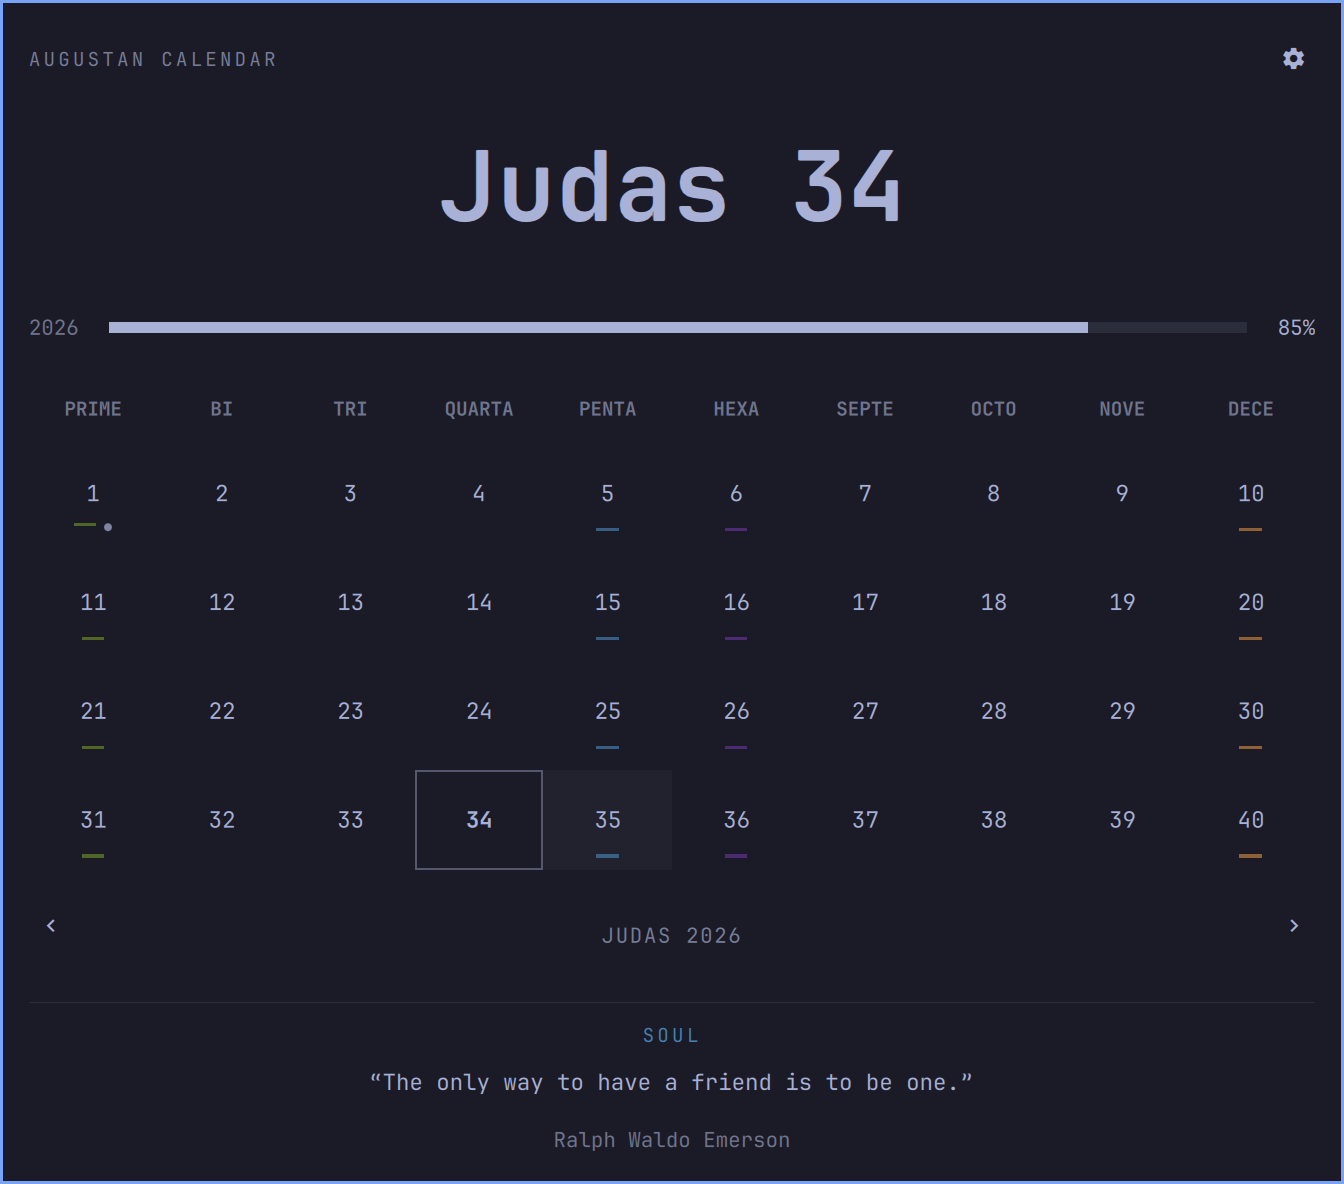
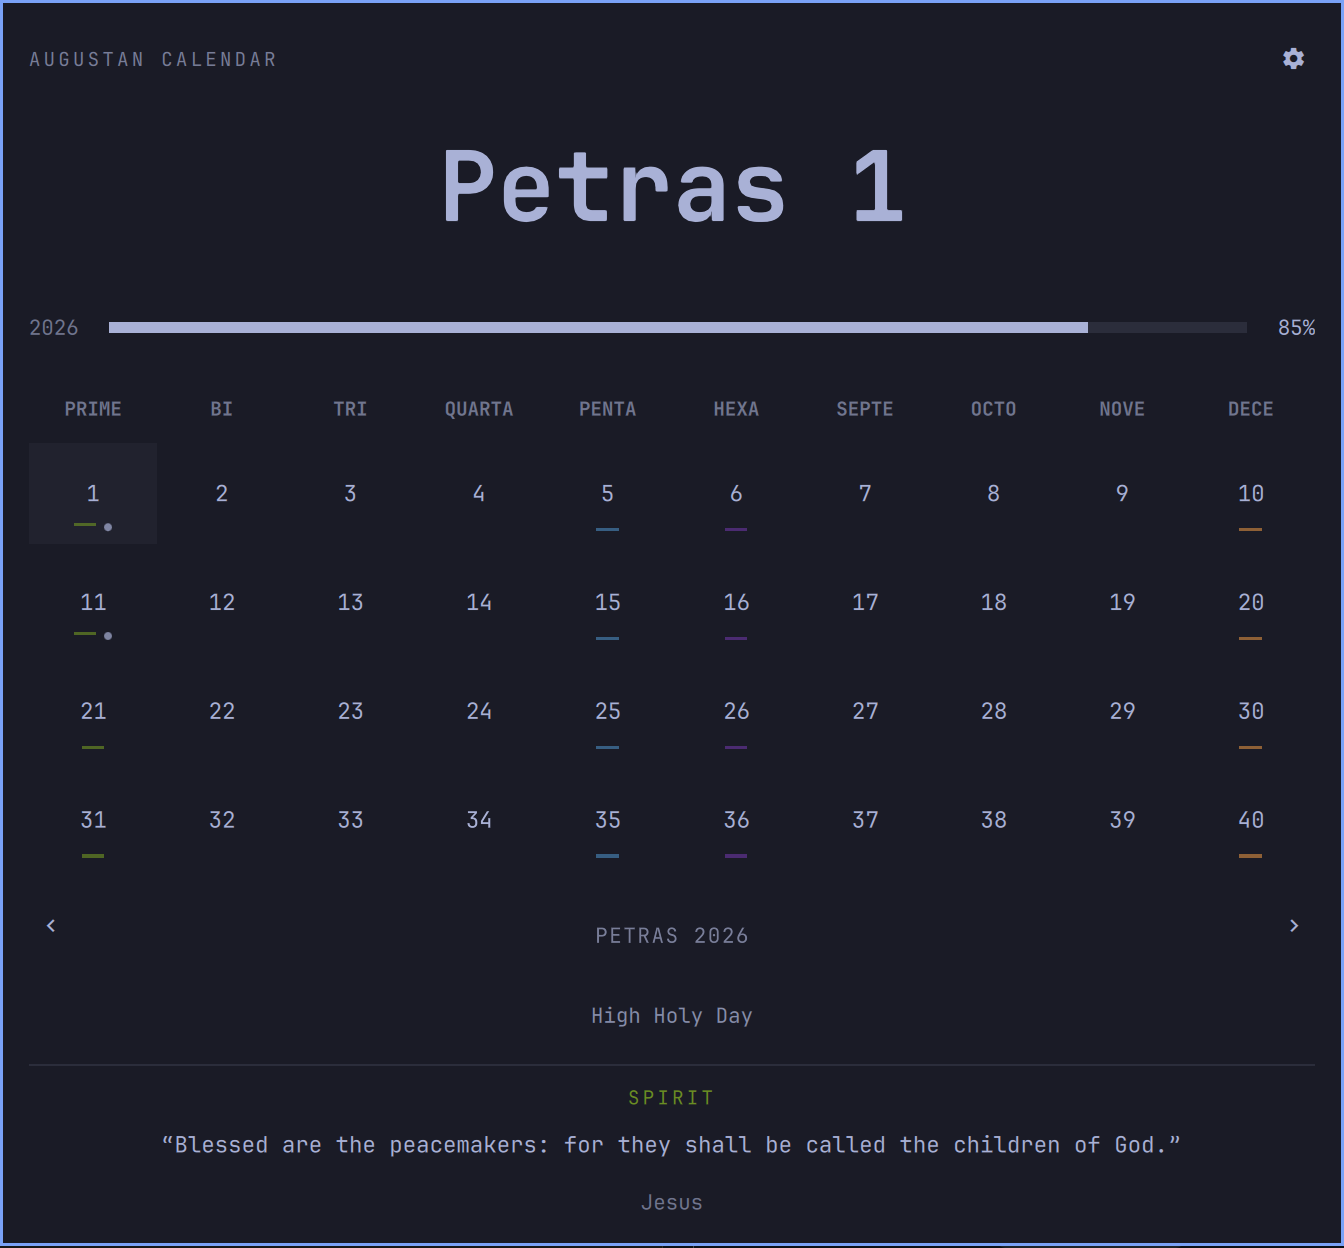
Show selected date in calendar heading and preview Petras

diff --git a/Augustan.qml b/Augustan.qml
@@ -151,7 +151,7 @@ Panel {
                             width: parent.width; height: hero.implicitHeight+Style.space(12)
                             PlainText {
                                 id: hero; anchors.horizontalCenter: parent.horizontalCenter
-                                text: Model.monthName(root.today.monthIndex,root.monthSystem)+" "+I18n.formatNumber(root.today.day)
+                                text: Model.monthName(root.viewMonth,root.monthSystem)+" "+I18n.formatNumber(root.selectedDay)
                                 font.family: root.family; font.pixelSize: Math.min(Style.space(52),parent.width/9); font.bold: true
                                 color: root.fg
                             }
